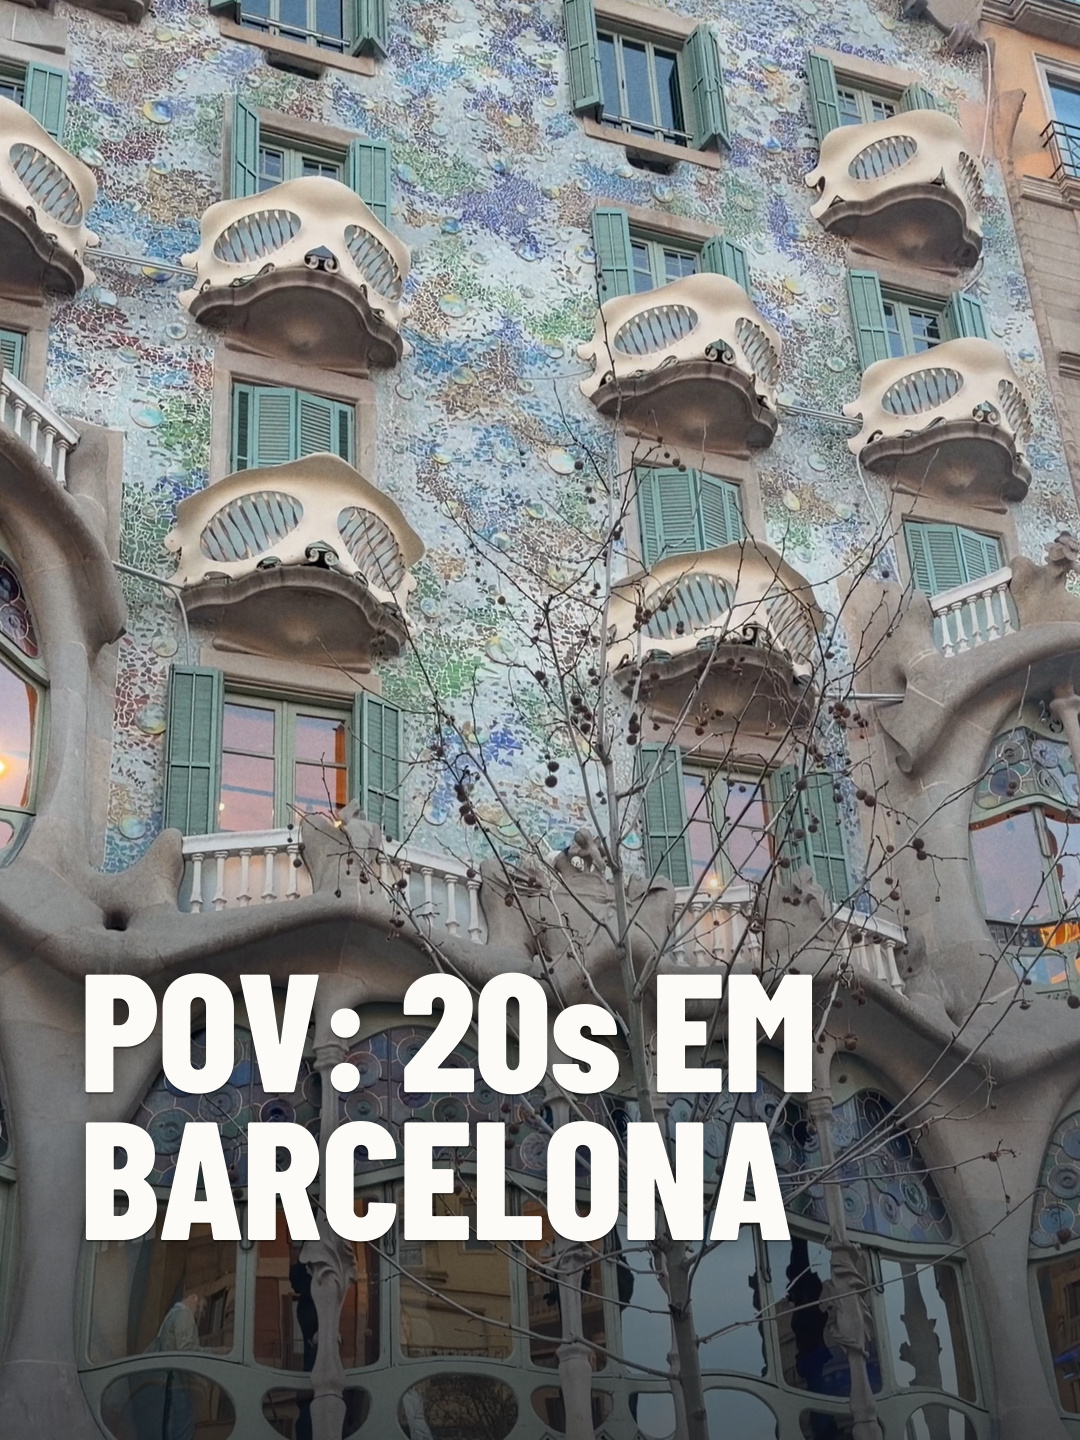
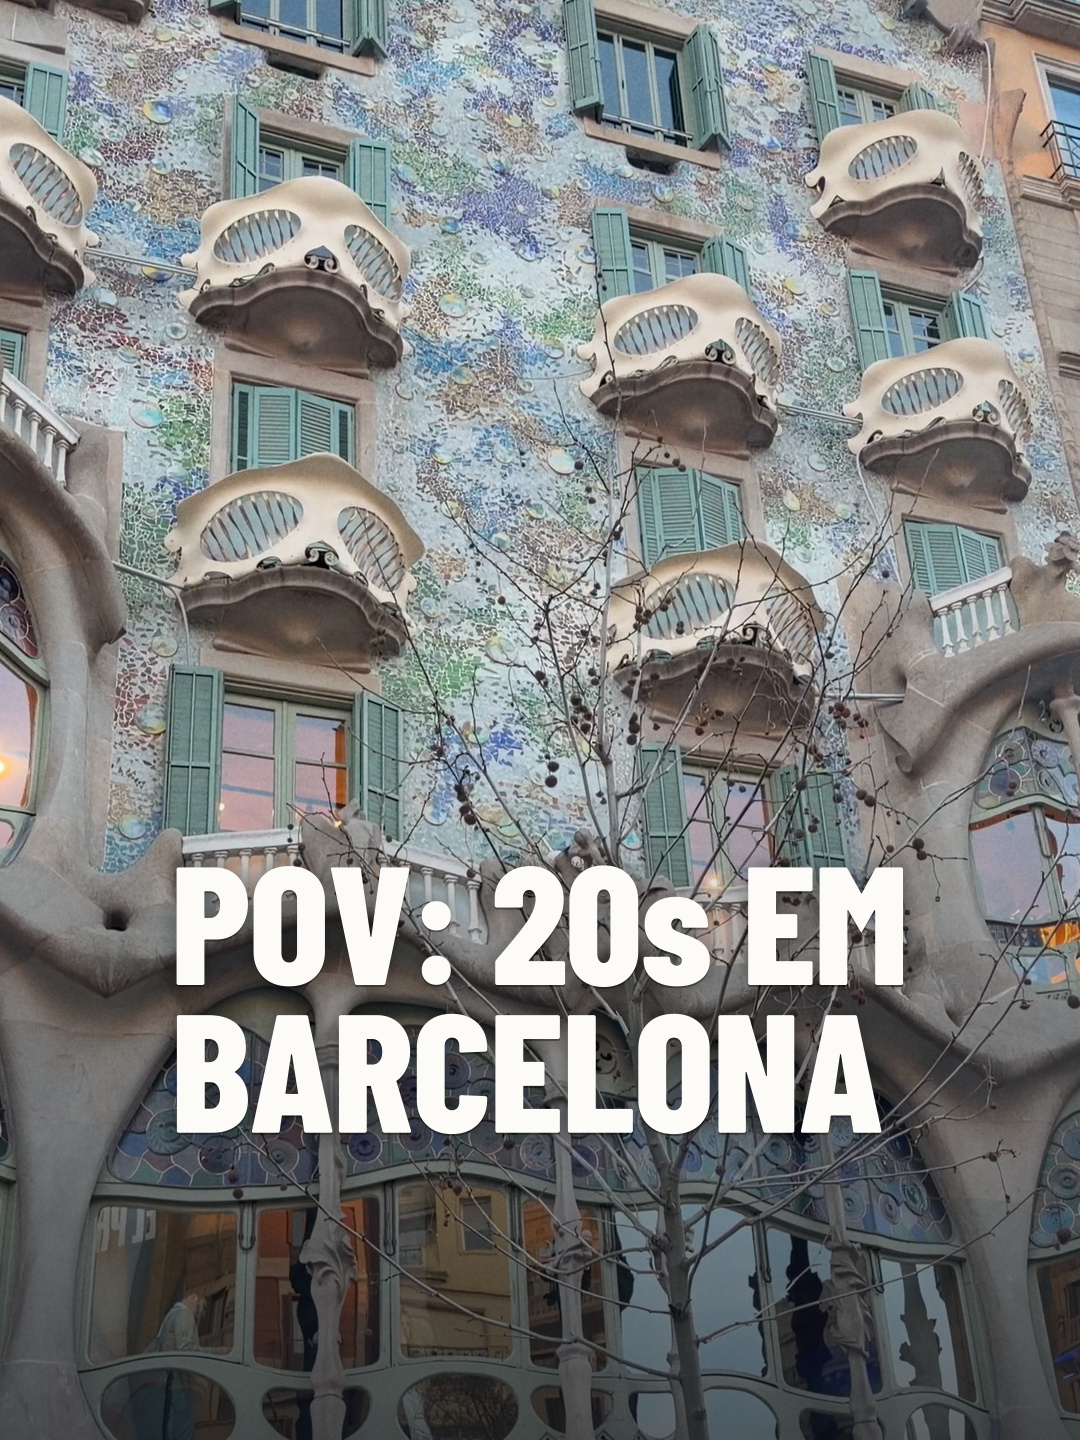
Barcelona em 20s v2: capa com a frase centralizada e dentro dos recortes do Instagram
A frase estava alinhada na margem x 85 e seria cortada à esquerda quando o
Instagram encaixa a capa 3:4 no 9:16 do Reel (perde 135 px de cada lado).
Agora o bloco é centralizado pela tinta em x 540 (x 176–904 · y 865–1135).

Claude-Session: https://claude.ai/code/session_01FrRrKXyuqaP42XbJ1gmFNe

Changed region(s): [[0.0611, 0.5938, 0.8556, 0.875]]

diff --git a/reels/barcelona-20s/rev4/scripts/capa.py b/reels/barcelona-20s/rev4/scripts/capa.py
@@ -34,22 +34,47 @@ def quadro(arq, t, p):
 
 
 def texto(fontes):
+    """Bloco de texto Display centralizado no canvas pela tinta (x 540) e com o centro da tinta em
+    C["centro_y_tinta"]; as linhas ficam alinhadas à esquerda dentro do bloco (DS 1.2: Display alinhado à esquerda)."""
     S = pd.SS
     f = pd.fonte("BarlowCondensed-ExtraBold.ttf", C["tamanho"] * S, fontes)
     trk = C["tracking_em"] * C["tamanho"] * S
     lh = C["tamanho"] * C["entrelinha"]
     linhas = C["linhas"]
 
-    def desenho(d):
-        for i, ln in enumerate(linhas):
-            y = (C["base_y"] - (len(linhas) - 1 - i) * lh) * S
-            x = C["margem"] * S
-            for c in ln:
-                d.text((x, y), c, font=f, fill=255, anchor="ls")
-                x += f.getlength(c) + trk
-    m = pd.reduzir(pd.mascara((CW * S, CH * S), desenho)[..., None])[..., 0]
-    ys, xs = np.nonzero(m > 0.02)
-    return m, [int(xs.min()), int(ys.min()), int(xs.max()) + 1, int(ys.max()) + 1]
+    def mask(dx, dy):
+        def desenho(d):
+            for i, ln in enumerate(linhas):
+                y = (dy + i * lh) * S
+                x = dx * S
+                for c in ln:
+                    d.text((x, y), c, font=f, fill=255, anchor="ls")
+                    x += f.getlength(c) + trk
+        m = pd.reduzir(pd.mascara((CW * S, CH * S), desenho)[..., None])[..., 0]
+        ys, xs = np.nonzero(m > 0.02)
+        return m, [int(xs.min()), int(ys.min()), int(xs.max()) + 1, int(ys.max()) + 1]
+    _, cx = mask(100, 400)                      # 1ª passada: mede a tinta
+    dx = 100 + C["centro_x"] - (cx[0] + cx[2]) / 2
+    dy = 400 + C["centro_y_tinta"] - (cx[1] + cx[3]) / 2
+    return mask(dx, dy)
+
+
+def simular_instagram(arq, saida):
+    """Como a capa 3:4 aparece: (1) inteira, (2) como capa do Reel (a imagem preenche o 9:16 e perde as laterais),
+    (3) no grid do perfil (recorte 3:4 central do 9:16)."""
+    from PIL import Image as I, ImageDraw as D
+    c = I.open(arq).convert("RGB")
+    reel = c.resize((1440, 1920), I.LANCZOS).crop((180, 0, 1260, 1920))     # preenche 1080 × 1920
+    grid = reel.crop((0, 240, 1080, 1680))
+    h = 600
+    vs = [c.resize((450, 600)), reel.resize((338, 600)), grid.resize((450, 600)), c.resize((270, 360)).resize((450, 600))]
+    rot = ["capa 3:4 inteira", "capa do Reel (9:16)", "grid do perfil", "miniatura 25%"]
+    out = I.new("RGB", (sum(v.width for v in vs) + 30 * 3, h + 30), "white")
+    x = 0
+    d = D.Draw(out)
+    for v, r in zip(vs, rot):
+        out.paste(v, (x, 0)); d.text((x + 4, h + 8), r, fill=(0, 0, 0)); x += v.width + 30
+    out.save(saida, quality=88)
 
 
 def main():
@@ -81,6 +106,9 @@ def main():
         caixa[3] <= CH - C["margem"]
     mini = Image.open(saida).resize((CW // 4, CH // 4), Image.LANCZOS)
     mini.save(saida.replace(".jpg", "_miniatura25.jpg"), quality=90)
+    simular_instagram(saida, os.path.join(pd.REV, "_tmp", "capa_simulacao_instagram.jpg"))
+    seg = [135, 180, 945, 1260]   # área que sobra nos dois recortes (capa do Reel e grid), em coordenadas da capa
+    ok = ok and caixa[0] >= seg[0] and caixa[2] <= seg[2] and caixa[1] >= seg[1] and caixa[3] <= seg[3]
     print(json.dumps({"capa": saida, "texto_caixa": caixa, "dentro_da_margem_80": ok,
                       "palavras": sum(len(x.split()) for x in C["linhas"])}, ensure_ascii=False))
 
